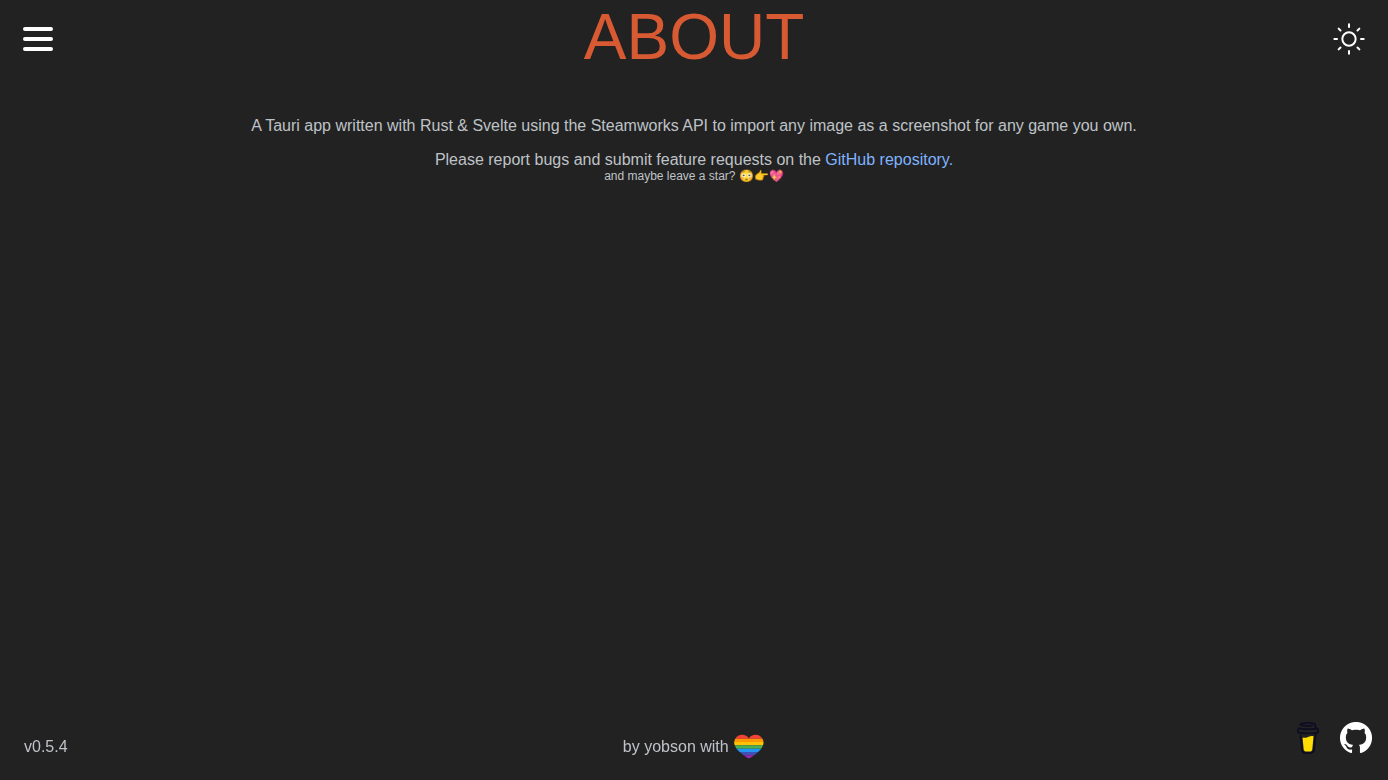
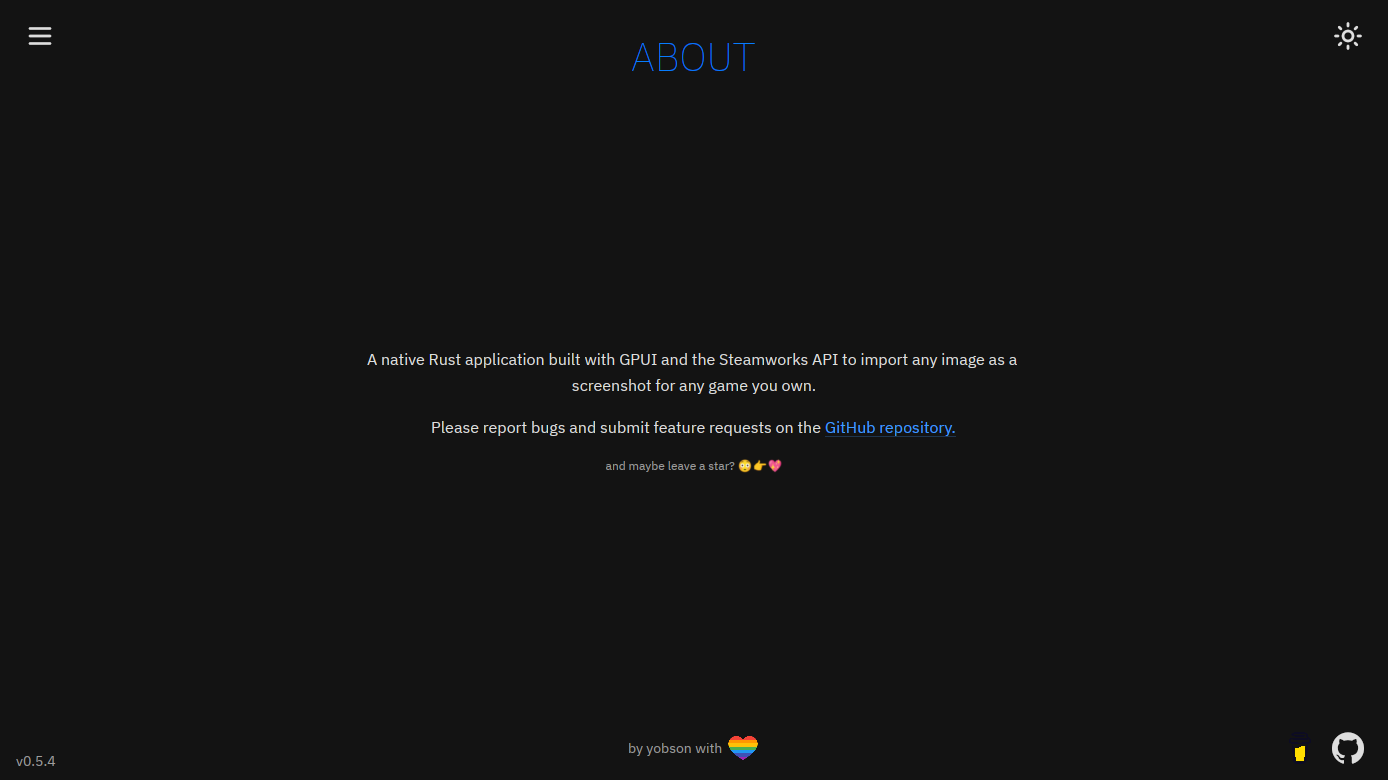
chore: update screenshots

diff --git a/README.md b/README.md
@@ -86,8 +86,6 @@ Currently only distributing/testing for Win64 and Arch based Linux distros
 
 ![Screenshot](screenshots/about.png)
 
-![Screenshot](screenshots/import_dialogue.png)
-
 ![Screenshot](screenshots/steam_import.png)
 
 ## Light theme
